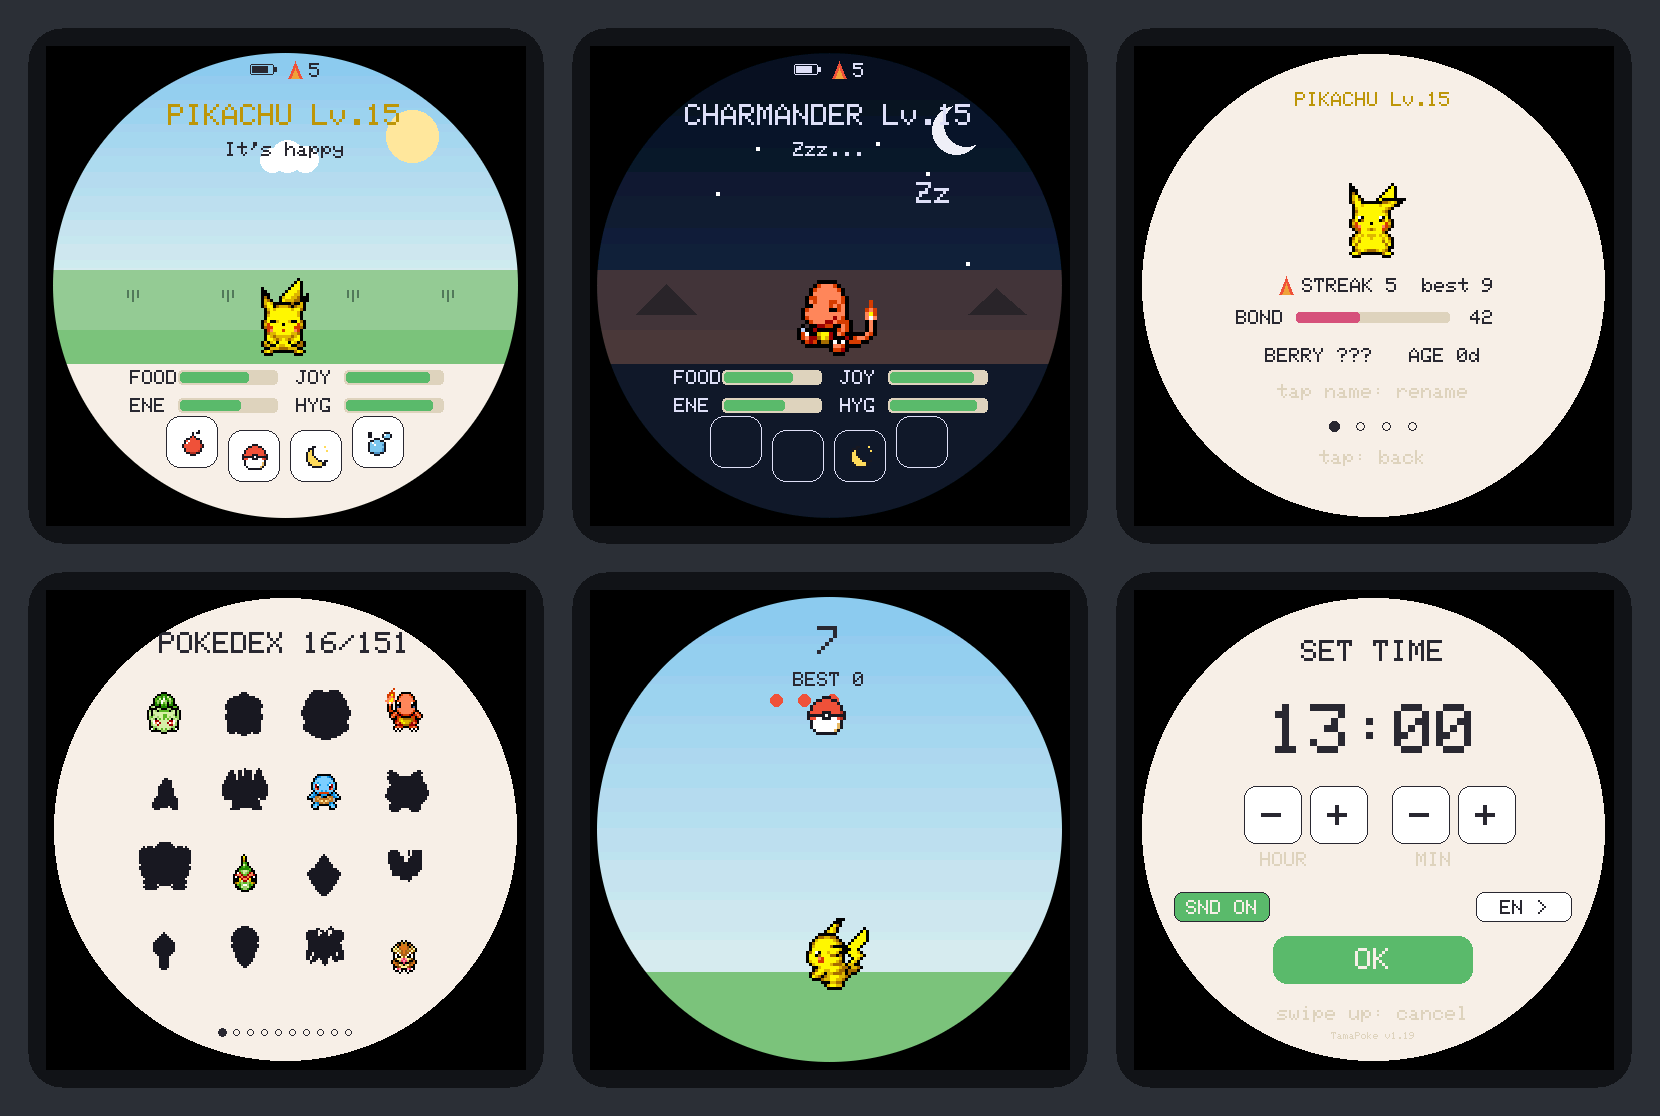
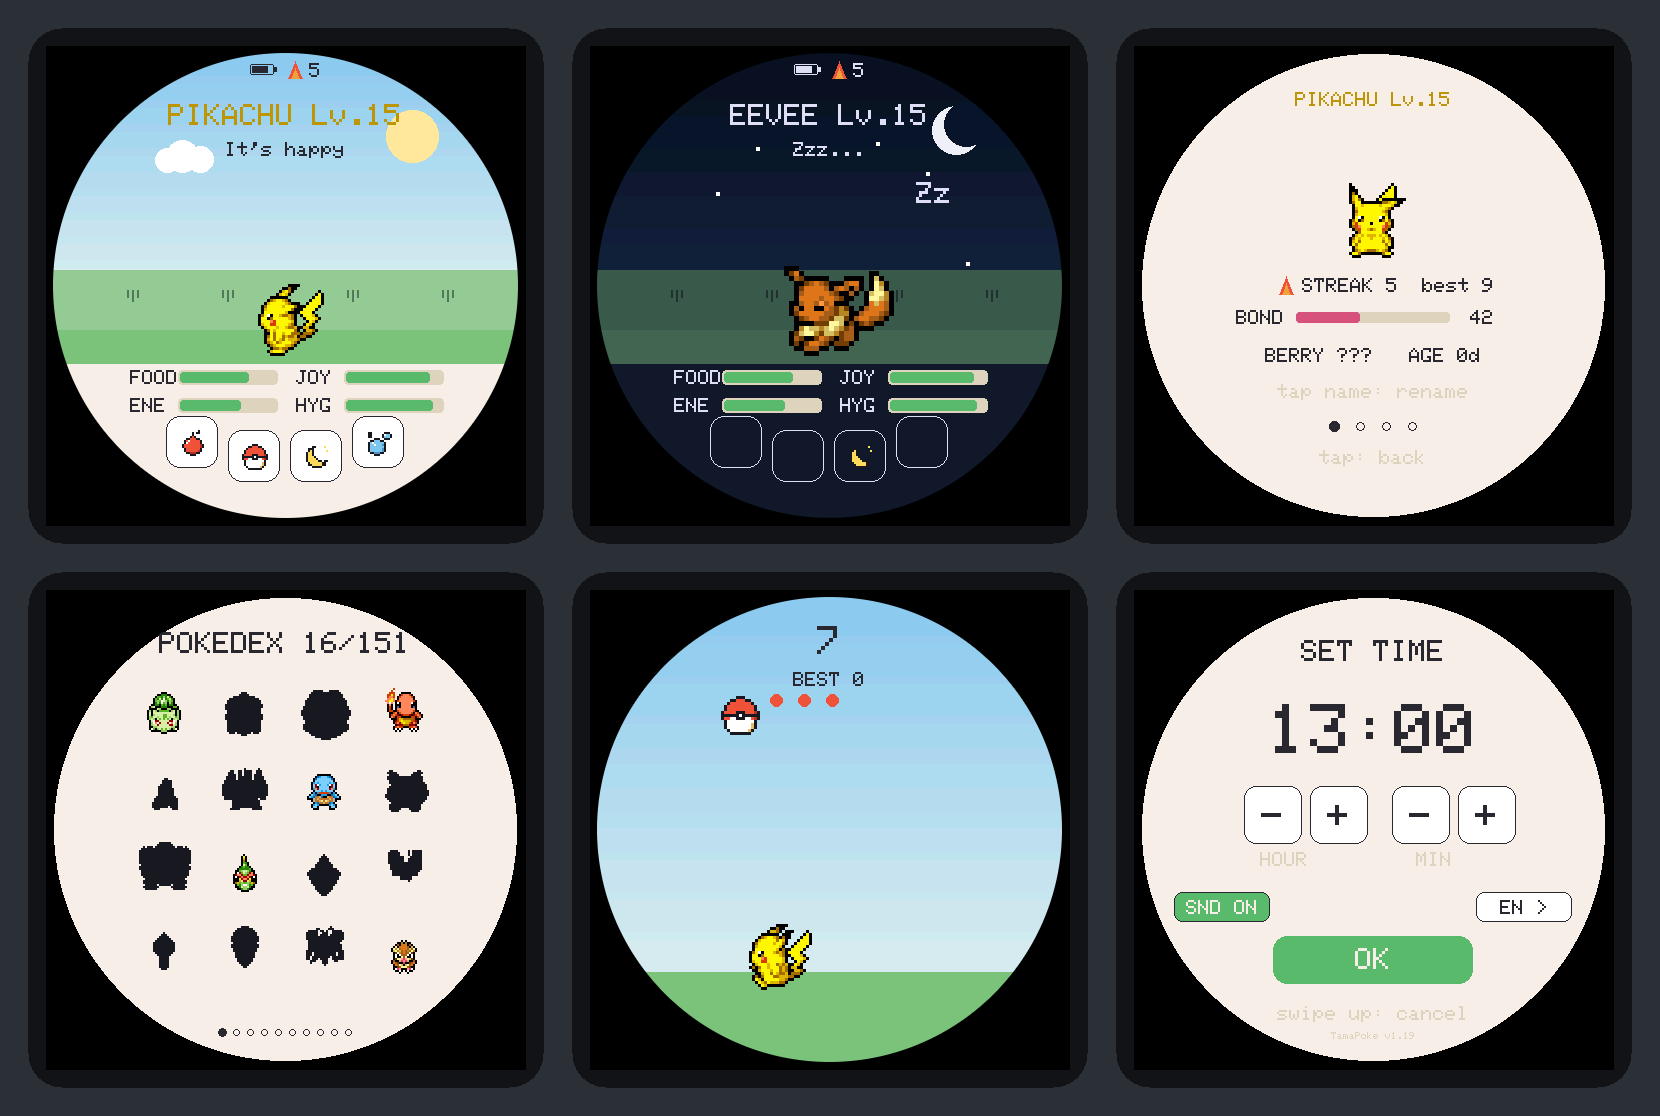
Render harness: deterministic scenes, sanitizer builds
- Every scene starts from the same fake clock, random sequence and pet
  behaviour, so it renders identically alone or after the others (checked
  with cmp on home, minigame and home-night).
- Library objects are cached per RENDER_FLAGS, so a sanitizer build and a
  plain one don't mix objects.
- The README sheet: clock picked so the clouds clear the title, and the
  night scene uses Eevee (the moon covers the end of long names; that is
  the game's own layout, unchanged).

Tested: all 21 scenes under -fsanitize=address,undefined with no reports;
plain render of every scene.

diff --git a/tools/render/render.cpp b/tools/render/render.cpp
@@ -116,7 +116,13 @@ static void pasteOnGlass(std::vector<uint8_t> &img, int iw, int x, int y, const 
 // 2026-06-15 at the given hour (UTC, as the firmware treats the RTC)
 static uint32_t epochAt(int hour) { return 1781481600UL + (uint32_t)hour * 3600; }
 
+// Every scene starts from the same clock, random sequence and pet behaviour, so
+// it renders the same whether it runs alone or after the others.
 static void resetUi() {
+  gHostMillis = 107915;  // the first frame then lands with the clouds clear of the title
+  gHostRandom = 12345;
+  beh = decltype(beh){};
+  walkLast = 0;
   galleryOpen = cardOpen = kbOpen = clockOpen = gameOpen = sackOpen = false;
   galleryDetail = 0;
   galleryPage = 0;
@@ -175,7 +181,7 @@ static const std::vector<Scene> &scenes() {
      } },
     { "home", [] { pokemon(25, 13); } },
     { "home-dusk", [] { pokemon(7, 19); } },
-    { "home-night", [] { pokemon(4, 23); pet.sleeping = true; } },
+    { "home-night", [] { pokemon(133, 23); pet.sleeping = true; } },
     { "home-forest", [] { pokemon(1, 9); pet.poops = 2; pet.fullness = 20; } },
     { "feed", [] { pokemon(133, 12); feedMenuUntil = millis() + 6000; } },
     { "release", [] { pokemon(54, 15); confirmUntil = millis() + 10000; } },

diff --git a/tools/render/README.md b/tools/render/README.md
@@ -7,6 +7,7 @@ saves them as 480x480 PNGs. No board, no flashing.
 tools/render/render.sh                          # every scene -> .pio/render/screens/
 tools/render/render.sh /tmp/shots home gallery  # some scenes
 RENDER_FLAGS=-DTP_ROUND_FRAME=0 tools/render/render.sh /tmp/square   # without the round frame
+RENDER_FLAGS="-fsanitize=address,undefined" tools/render/render.sh /tmp/asan  # drawing code under sanitizers
 ```
 
 It also writes `screens.png`, the contact sheet used in the README.
